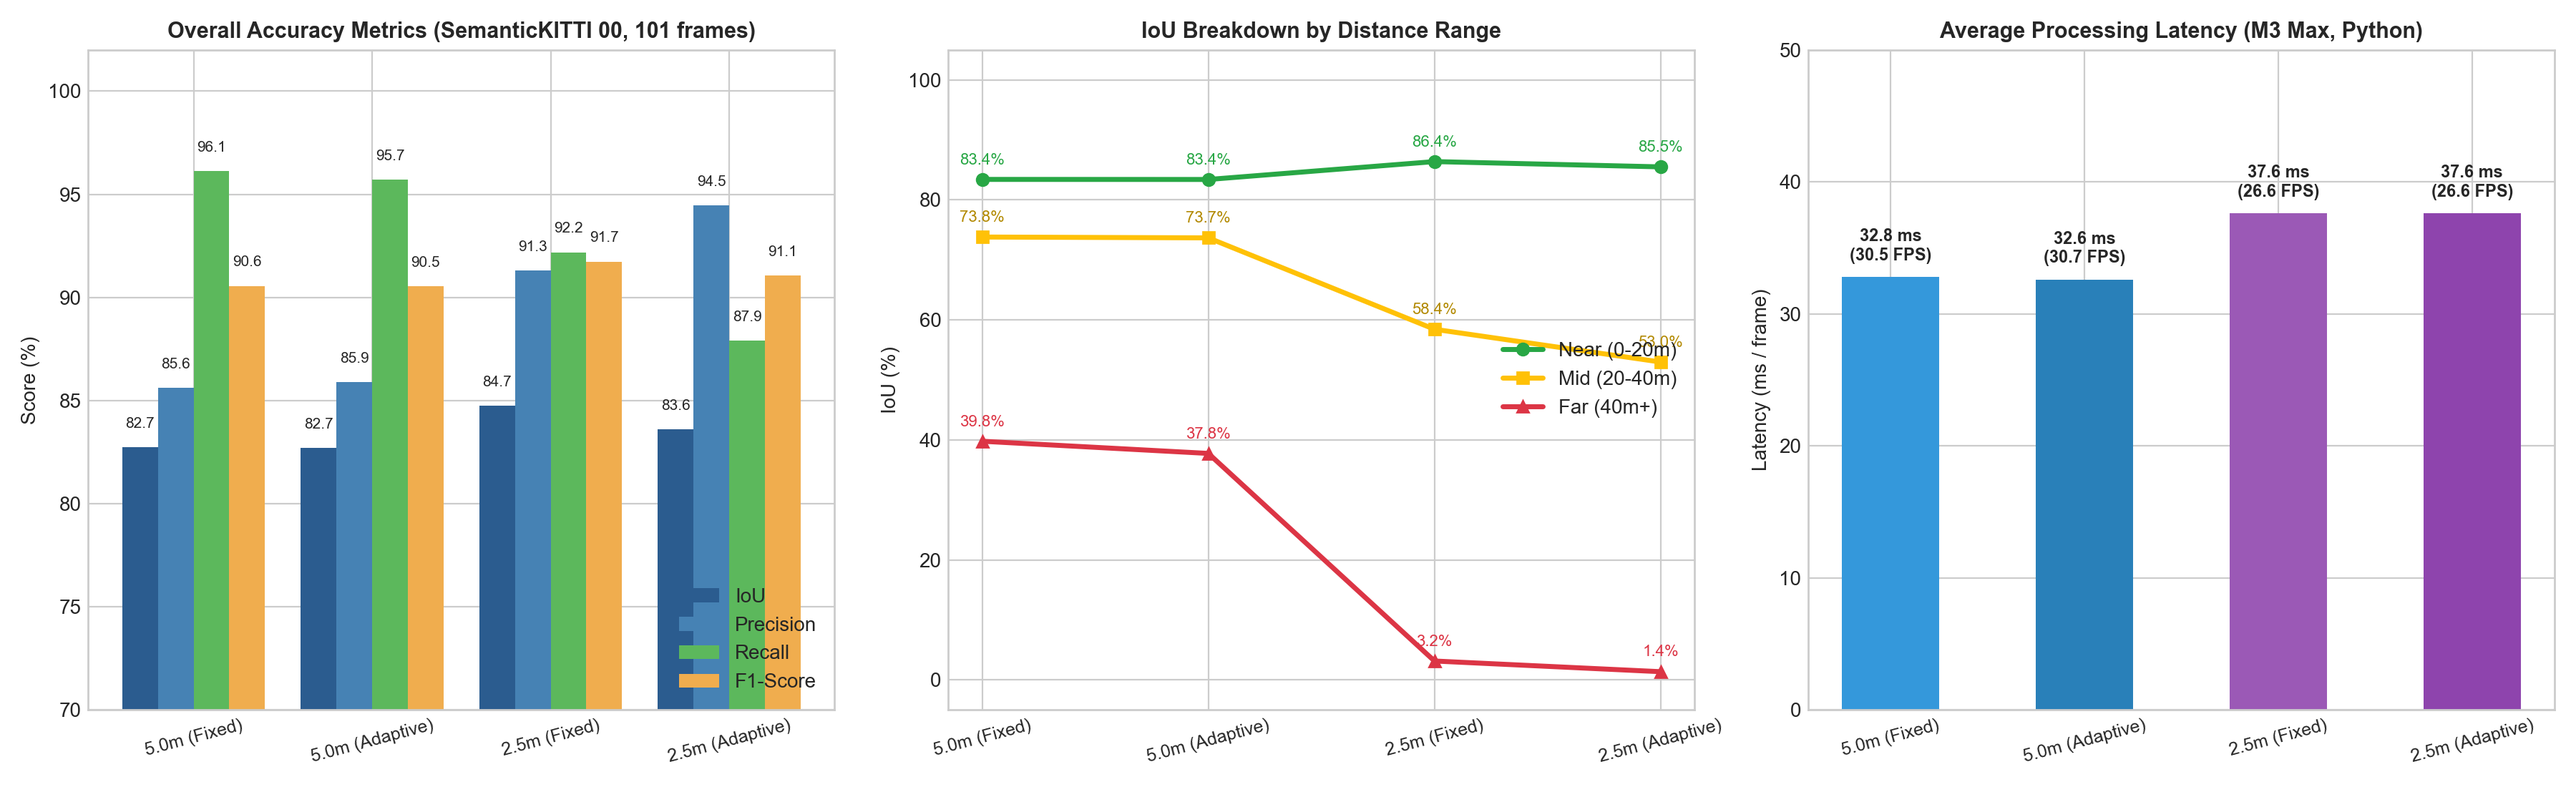
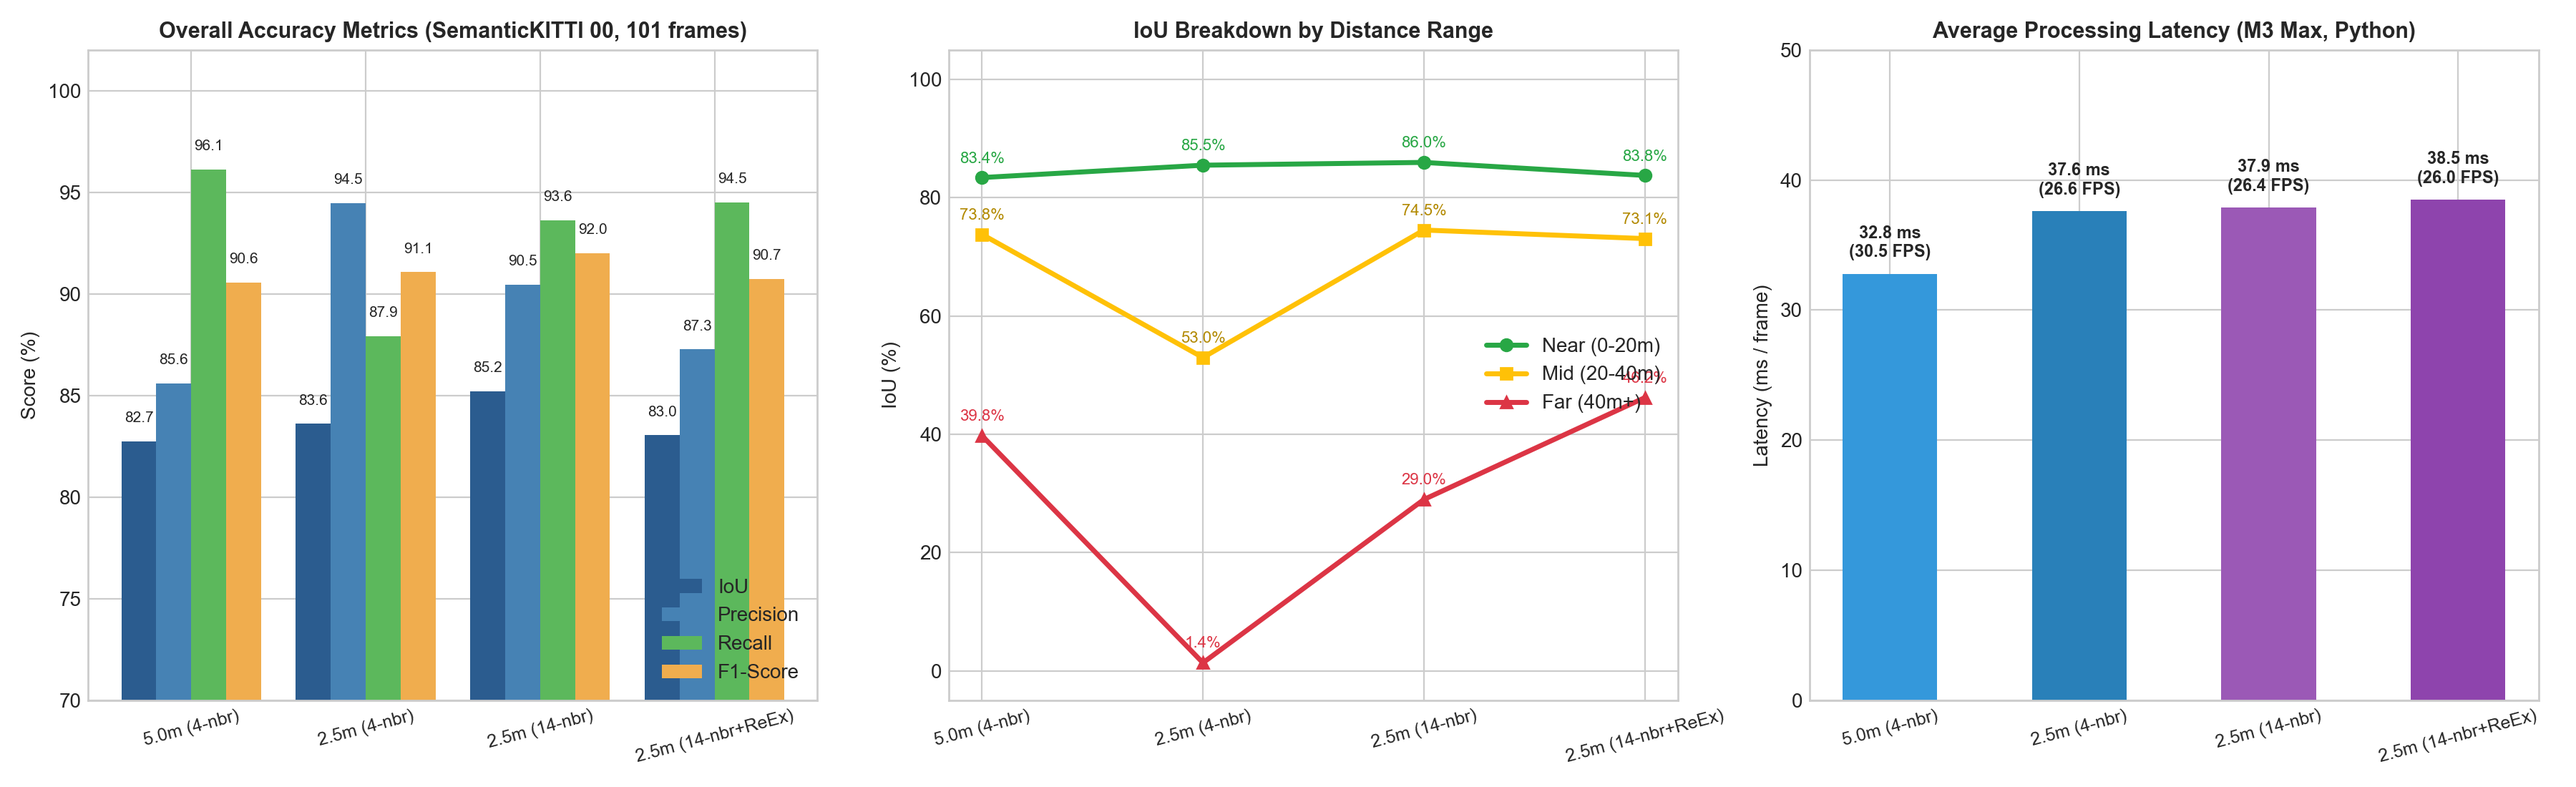
feat(traversal): implement 14-neighbor expansion & multi-component re-exploration from official TRAVEL

diff --git a/src/travel_py/graph.py b/src/travel_py/graph.py
@@ -23,21 +23,58 @@ _EXTERNAL_NEIGHBOR: dict[int, tuple[int, int, int]] = {
     3: ( 0, -1, 1),
 }
 
+# 14-neighbor external connectivity from official TRAVEL (tgs.hpp L680-770 searchNeighborNodes):
+# Connects not only to the edge-sharing adjacent triangle, but also to adjacent
+# triangles across vertices/corners (total 11 external triangles per subcell).
+_EXTERNAL_14_NEIGHBORS: dict[int, tuple[tuple[int, int, int], ...]] = {
+    0: (
+        (+1, +1, 2), (+1, +1, 3),
+        (+1,  0, 1), (+1,  0, 2), (+1,  0, 3),
+        (+1, -1, 1), (+1, -1, 2),
+        ( 0, +1, 0), ( 0, +1, 3),
+        ( 0, -1, 0), ( 0, -1, 1),
+    ),
+    1: (
+        (+1, +1, 2), (+1, +1, 3),
+        (+1,  0, 1), (+1,  0, 2),
+        ( 0, +1, 0), ( 0, +1, 2), ( 0, +1, 3),
+        (-1, +1, 0), (-1, +1, 3),
+        (-1,  0, 0), (-1,  0, 1),
+    ),
+    2: (
+        ( 0, +1, 2), ( 0, +1, 3),
+        ( 0, -1, 1), ( 0, -1, 2),
+        (-1, +1, 0), (-1, +1, 3),
+        (-1,  0, 0), (-1,  0, 1), (-1,  0, 3),
+        (-1, -1, 0), (-1, -1, 1),
+    ),
+    3: (
+        (+1,  0, 2), (+1,  0, 3),
+        (+1, -1, 1), (+1, -1, 2),
+        ( 0, -1, 0), ( 0, -1, 1), ( 0, -1, 2),
+        (-1,  0, 0), (-1,  0, 3),
+        (-1, -1, 0), (-1, -1, 1),
+    ),
+}
+
 
 class TraversabilityGraph:
-    def __init__(self, grid: Grid):
+    def __init__(self, grid: Grid, use_14_neighbors: bool = False):
         self.grid = grid
+        self.use_14_neighbors = use_14_neighbors
 
     def get_neighbor_subcells(self, idx: SubCellIndex) -> List[SubCellIndex]:
         """
-        Return strict TGS neighbors of *idx*.
+        Return neighbors of *idx*.
 
         Internal (same cell, center-sharing):
             All 3 other triangles in the same cell.
 
-        External (edge-sharing across cell boundary):
-            Exactly one triangle in the directly adjacent cell,
-            determined by which cell edge the triangle faces.
+        External:
+            - If use_14_neighbors=False (strict 4-neighbors):
+              Exactly one triangle in the directly adjacent cell sharing the boundary edge.
+            - If use_14_neighbors=True (official 14-neighbors):
+              Up to 11 triangles in edge- and corner-adjacent cells.
         """
         neighbors: List[SubCellIndex] = []
 
@@ -46,11 +83,16 @@ class TraversabilityGraph:
             if t != idx.tri:
                 neighbors.append(SubCellIndex(idx.i, idx.j, t))
 
-        # 2. External: the single adjacent tri that shares the boundary edge.
-        di, dj, ext_tri = _EXTERNAL_NEIGHBOR[idx.tri]
-        ni, nj = idx.i + di, idx.j + dj
-
-        if self.grid._in_bounds(ni, nj) and (ni, nj) in self.grid.cells:
-            neighbors.append(SubCellIndex(ni, nj, ext_tri))
+        # 2. External neighbors
+        if self.use_14_neighbors:
+            for di, dj, ext_tri in _EXTERNAL_14_NEIGHBORS[idx.tri]:
+                ni, nj = idx.i + di, idx.j + dj
+                if self.grid._in_bounds(ni, nj) and (ni, nj) in self.grid.cells:
+                    neighbors.append(SubCellIndex(ni, nj, ext_tri))
+        else:
+            di, dj, ext_tri = _EXTERNAL_NEIGHBOR[idx.tri]
+            ni, nj = idx.i + di, idx.j + dj
+            if self.grid._in_bounds(ni, nj) and (ni, nj) in self.grid.cells:
+                neighbors.append(SubCellIndex(ni, nj, ext_tri))
 
         return neighbors

diff --git a/src/travel_py/fast.py b/src/travel_py/fast.py
@@ -32,6 +32,43 @@ _CODE_TO_STATE = {
 # Same edge-sharing table as graph._EXTERNAL_NEIGHBOR: tri -> (di, dj, neighbor tri)
 _EXTERNAL_NEIGHBOR = ((1, 0, 2), (0, 1, 3), (-1, 0, 0), (0, -1, 1))
 
+# Official TRAVEL 14-neighbor external connectivity (tgs.hpp searchNeighborNodes):
+# tri -> tuple of (di, dj, ext_tri) (11 external triangles per subcell)
+_EXTERNAL_14_NEIGHBORS = (
+    # tri 0 (East): 11 external neighbors
+    (
+        (+1, +1, 2), (+1, +1, 3),
+        (+1,  0, 1), (+1,  0, 2), (+1,  0, 3),
+        (+1, -1, 1), (+1, -1, 2),
+        ( 0, +1, 0), ( 0, +1, 3),
+        ( 0, -1, 0), ( 0, -1, 1),
+    ),
+    # tri 1 (North): 11 external neighbors
+    (
+        (+1, +1, 2), (+1, +1, 3),
+        (+1,  0, 1), (+1,  0, 2),
+        ( 0, +1, 0), ( 0, +1, 2), ( 0, +1, 3),
+        (-1, +1, 0), (-1, +1, 3),
+        (-1,  0, 0), (-1,  0, 1),
+    ),
+    # tri 2 (West): 11 external neighbors
+    (
+        ( 0, +1, 2), ( 0, +1, 3),
+        ( 0, -1, 1), ( 0, -1, 2),
+        (-1, +1, 0), (-1, +1, 3),
+        (-1,  0, 0), (-1,  0, 1), (-1,  0, 3),
+        (-1, -1, 0), (-1, -1, 1),
+    ),
+    # tri 3 (South): 11 external neighbors
+    (
+        (+1,  0, 2), (+1,  0, 3),
+        (+1, -1, 1), (+1, -1, 2),
+        ( 0, -1, 0), ( 0, -1, 1), ( 0, -1, 2),
+        (-1,  0, 0), (-1,  0, 3),
+        (-1, -1, 0), (-1, -1, 1),
+    ),
+)
+
 
 # =========================
 # Flat grid
@@ -234,6 +271,9 @@ def traverse_iterative(
     adaptive: bool = False,
     th_lcc_normal_similarity: float = 0.03,
     th_lcc_planar_dist: float = 0.2,
+    use_14_neighbors: bool = False,
+    re_explore: bool = False,
+    max_components: int = 100,
 ) -> TraversalResult:
     """
     Iterative BFS matching seed.find_dominant_subcells(already_visited=visited).
@@ -278,7 +318,9 @@ def traverse_iterative(
     cand_ptr = 0
     num_cand = len(ranked_candidates)
 
-    for _ in range(max(top_k, 0)):
+    limit = max_components if re_explore else max(top_k, 0)
+
+    for _ in range(limit):
         # Find next unvisited ground seed
         next_seed = -1
         while cand_ptr < num_cand:
@@ -302,10 +344,16 @@ def traverse_iterative(
             c, tr = divmod(g, 4)
             ci_val, cj_val = divmod(c, ny)
             nbrs = [c * 4 + t for t in range(4) if t != tr]
-            di, dj, et = _EXTERNAL_NEIGHBOR[tr]
-            ni, nj = ci_val + di, cj_val + dj
-            if 0 <= ni < nx and 0 <= nj < ny and cell_l[ni * ny + nj]:
-                nbrs.append((ni * ny + nj) * 4 + et)
+            if use_14_neighbors:
+                for di, dj, et in _EXTERNAL_14_NEIGHBORS[tr]:
+                    ni, nj = ci_val + di, cj_val + dj
+                    if 0 <= ni < nx and 0 <= nj < ny and cell_l[ni * ny + nj]:
+                        nbrs.append((ni * ny + nj) * 4 + et)
+            else:
+                di, dj, et = _EXTERNAL_NEIGHBOR[tr]
+                ni, nj = ci_val + di, cj_val + dj
+                if 0 <= ni < nx and 0 <= nj < ny and cell_l[ni * ny + nj]:
+                    nbrs.append((ni * ny + nj) * 4 + et)
 
             nu = nrm_l[u]
             mu = mean_l[u]

diff --git a/src/travel_py/pipeline.py b/src/travel_py/pipeline.py
@@ -117,7 +117,8 @@ def run_pipeline(points: np.ndarray, global_cfg: GlobalConfig) -> PipelineResult
             step1_labels[(cell.index[0], cell.index[1], t)] = sub.label
     timer.lap("plane")
 
-    graph = TraversabilityGraph(grid)
+    use_14 = getattr(accept_cfg, "use_14_neighbors", False)
+    graph = TraversabilityGraph(grid, use_14_neighbors=use_14)
     seed_cfg = global_cfg.seed
 
     rejection_map: dict[tuple, str] = {}
@@ -192,7 +193,11 @@ def run_pipeline(points: np.ndarray, global_cfg: GlobalConfig) -> PipelineResult
     max_depth = 0
 
     prefer_center = getattr(seed_cfg, "prefer_center", False)
-    for _ in range(seed_cfg.top_k):
+    re_explore = getattr(seed_cfg, "re_explore", False)
+    max_components = getattr(seed_cfg, "max_components", 100)
+    limit = max_components if re_explore else seed_cfg.top_k
+
+    for _ in range(limit):
         seeds = find_dominant_subcells(
             grid,
             top_k=1,
@@ -282,6 +287,9 @@ def run_fast(points: np.ndarray, global_cfg: GlobalConfig, *, keep_grid: bool = 
     use_adaptive = getattr(global_cfg.accept, "use_adaptive_lcc", False)
     th_norm_sim = getattr(global_cfg.accept, "th_lcc_normal_similarity", 0.03)
     th_plan_dist = getattr(global_cfg.accept, "th_lcc_planar_dist", 0.2)
+    use_14 = getattr(global_cfg.accept, "use_14_neighbors", False)
+    re_explore = getattr(global_cfg.seed, "re_explore", False)
+    max_comp = getattr(global_cfg.seed, "max_components", 100)
     trav = fast.traverse_iterative(
         flat, planes,
         top_k=global_cfg.seed.top_k,
@@ -291,6 +299,9 @@ def run_fast(points: np.ndarray, global_cfg: GlobalConfig, *, keep_grid: bool = 
         adaptive=use_adaptive,
         th_lcc_normal_similarity=th_norm_sim,
         th_lcc_planar_dist=th_plan_dist,
+        use_14_neighbors=use_14,
+        re_explore=re_explore,
+        max_components=max_comp,
     )
     final = fast.final_subcell_labels(planes, trav.visited)
     timer.lap("traversal")

diff --git a/tools/benchmark_semantickitti.py b/tools/benchmark_semantickitti.py
@@ -115,6 +115,22 @@ def main() -> None:
         help="Enable TRAVEL official distance-dependent adaptive LCC",
     )
     parser.add_argument(
+        "--use-14-neighbors",
+        action="store_true",
+        help="Enable TRAVEL official 14-neighbor expansion instead of 4-neighbors",
+    )
+    parser.add_argument(
+        "--re-explore",
+        action="store_true",
+        help="Enable TRAVEL official multi-component re-exploration for unvisited ground",
+    )
+    parser.add_argument(
+        "--max-components",
+        type=int,
+        default=50,
+        help="Max connected components when re-explore is enabled (default: 50)",
+    )
+    parser.add_argument(
         "--prefer-center",
         action="store_true",
         default=True,
@@ -146,7 +162,7 @@ def main() -> None:
 
     print(f"=== TRAVEL Ground Filter — SemanticKITTI Benchmark ===")
     print(f"Sequence: {args.data_dir.name} ({len(bin_files)} frames)")
-    print(f"Config: resolution={args.resolution}m, adaptive_lcc={args.adaptive}, top_k={args.top_k}, prefer_center={args.prefer_center}")
+    print(f"Config: resolution={args.resolution}m, adaptive={args.adaptive}, 14_nbrs={args.use_14_neighbors}, re_explore={args.re_explore}")
     print()
 
     # Grid config
@@ -160,6 +176,8 @@ def main() -> None:
         seed=SeedConfig(
             top_k=args.top_k,
             prefer_center=args.prefer_center,
+            re_explore=args.re_explore,
+            max_components=args.max_components,
         ),
         accept=AcceptConfig(
             max_height_diff=0.5,
@@ -167,6 +185,7 @@ def main() -> None:
             use_adaptive_lcc=args.adaptive,
             th_lcc_normal_similarity=0.03,
             th_lcc_planar_dist=0.2,
+            use_14_neighbors=args.use_14_neighbors,
         ),
     )
 

diff --git a/tests/test_fast_equivalence.py b/tests/test_fast_equivalence.py
@@ -104,3 +104,28 @@ class TestFastEquivalenceRealData:
         assert mismatches == 0, f"Mismatch on sample.npy at res={resolution}: {mismatches} points"
         assert res_ref.visited == res_fast.visited
         assert res_ref.step1_stats == res_fast.step1_stats
+
+    @pytest.mark.parametrize("use_14", [False, True])
+    @pytest.mark.parametrize("re_explore", [False, True])
+    def test_synthetic_advanced_features_equivalence(self, use_14: bool, re_explore: bool):
+        points = _make_synthetic_cloud(n_points=3000, seed=789)
+        cfg = GlobalConfig(
+            grid=GridConfig(resolution=2.5, origin_xy=(-50.0, -50.0), size_xy=(100, 100)),
+            seed=SeedConfig(top_k=3, re_explore=re_explore, max_components=20),
+            accept=AcceptConfig(
+                max_height_diff=0.5,
+                th_normal=0.9,
+                use_adaptive_lcc=True,
+                use_14_neighbors=use_14,
+            ),
+        )
+
+        res_ref = run_reference(points, cfg)
+        res_fast = run_fast(points, cfg, keep_grid=True)
+
+        mismatches = np.sum(res_ref.labels != res_fast.labels)
+        assert mismatches == 0, f"Mismatch (use_14={use_14}, re_explore={re_explore}): {mismatches} points"
+        assert res_ref.visited == res_fast.visited
+        assert res_ref.rejected_count == res_fast.rejected_count
+        assert res_ref.max_depth == res_fast.max_depth
+        assert res_ref.final_ground == res_fast.final_ground

diff --git a/tools/plot_benchmark.py b/tools/plot_benchmark.py
@@ -18,17 +18,22 @@ OUTPUT_DIR.mkdir(parents=True, exist_ok=True)
 # 1. Quantitative Benchmark Chart
 # -------------------------------------------------------------------------
 def plot_metrics_chart():
-    # Data from 101 frames benchmark
-    categories = ["5.0m (Fixed)", "5.0m (Adaptive)", "2.5m (Fixed)", "2.5m (Adaptive)"]
-    overall_iou = [82.74, 82.72, 84.74, 83.61]
-    overall_prec = [85.61, 85.91, 91.29, 94.47]
-    overall_rec = [96.11, 95.70, 92.19, 87.92]
-    overall_f1 = [90.56, 90.55, 91.74, 91.07]
-    latency_ms = [32.8, 32.6, 37.6, 37.6]
+    # Data from 101 frames benchmark on SemanticKITTI 00
+    categories = [
+        "5.0m (4-nbr)",
+        "2.5m (4-nbr)",
+        "2.5m (14-nbr)",
+        "2.5m (14-nbr+ReEx)",
+    ]
+    overall_iou = [82.74, 83.61, 85.20, 83.05]
+    overall_prec = [85.61, 94.47, 90.45, 87.27]
+    overall_rec = [96.11, 87.92, 93.62, 94.49]
+    overall_f1 = [90.56, 91.07, 92.01, 90.74]
+    latency_ms = [32.8, 37.6, 37.9, 38.5]
 
-    near_iou = [83.41, 83.40, 86.38, 85.50]
-    mid_iou = [73.81, 73.67, 58.44, 52.98]
-    far_iou = [39.78, 37.75, 3.16, 1.38]
+    near_iou = [83.41, 85.50, 85.97, 83.77]
+    mid_iou = [73.81, 52.98, 74.54, 73.09]
+    far_iou = [39.78, 1.38, 28.99, 46.21]
 
     plt.style.use("seaborn-v0_8-whitegrid" if "seaborn-v0_8-whitegrid" in plt.style.available else "default")
     fig, axes = plt.subplots(1, 3, figsize=(18, 5.5), dpi=200)

diff --git a/src/travel_py/config.py b/src/travel_py/config.py
@@ -38,6 +38,8 @@ class SeedConfig:
     use_mean_height: bool = True
     top_k: int = 5
     prefer_center: bool = False  # score by weight / (1 + dist_to_origin) to favour near-sensor seeds
+    re_explore: bool = False     # re-explore unvisited GROUND candidate subcells when queue is empty (official TRAVEL)
+    max_components: int = 100    # maximum ground components to explore when re_explore=True
 
 
 # =========================
@@ -56,6 +58,7 @@ class AcceptConfig:
     use_adaptive_lcc: bool = False     # Use TRAVEL official adaptive LCC thresholds based on inter-mean distance
     th_lcc_normal_similarity: float = 0.03  # angular coefficient for normal similarity: 1 - sin(d * theta)
     th_lcc_planar_dist: float = 0.2         # angular coefficient for plane distance: d * sin(theta)
+    use_14_neighbors: bool = False          # Use TRAVEL official 14-neighbor connectivity instead of strict 4-neighbors
 
 
 # =========================
